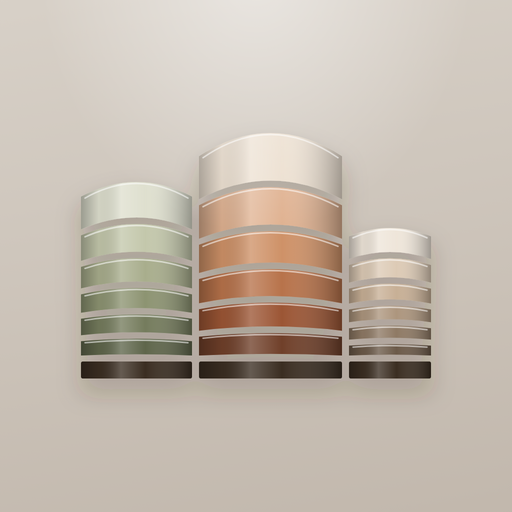
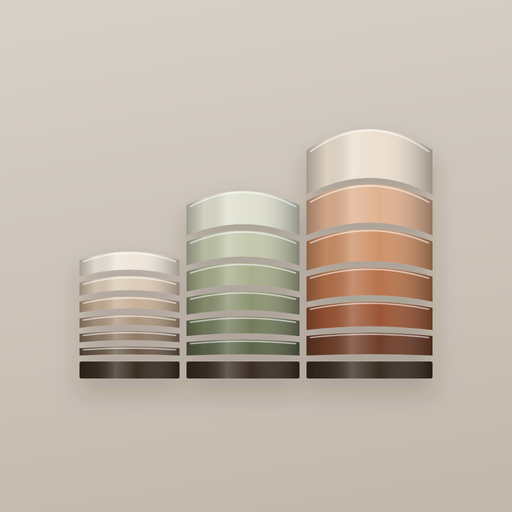
Eigen productlogo in plaats van het LuzeX-lockup
Elk product krijgt drie torens in dezelfde tekentaal als het LuzeX-beeldmerk,
maar in een eigen opstelling: ACCRD drie even hoog (alles klopt), CMMNTY twee
hoge rond een lagere (zorg om het midden), RSLNT oplopend (groei). Het lockup
draagt de productnaam in Outfit Light met een eigen slogan; favicon, app-iconen
en het maskable-icoon volgen. De hoogte in de balk blijft 47px, de breedte volgt
de verhouding van het nieuwe lockup.

Claude-Session: https://claude.ai/code/session_01DbSy4H9TgScYAeZfyUHyBw

Changed region(s): [[0.1562, 0.25, 0.8438, 0.75], [0.4688, 0.0, 0.5312, 0.0312]]

diff --git a/frontend/styles.css b/frontend/styles.css
@@ -345,11 +345,12 @@ body::after {
 
 /* ---------- Merk ---------- */
 
+/* RSLNT-lockup: 575,7 × 120 (= 4,798), op 47px hoogte 225px breed. */
 .brand-logo {
   display: block;
   width: 225px;
-  aspect-ratio: 4.789;
-  background-image: url("/assets/luzex-logo-zwart.svg");
+  aspect-ratio: 4.798;
+  background-image: url("/assets/rslnt-logo-zwart.svg");
   background-repeat: no-repeat;
   background-position: left center;
   background-size: contain;
@@ -358,7 +359,7 @@ body::after {
 
 @media (prefers-color-scheme: dark) {
   .brand-logo {
-    background-image: url("/assets/luzex-logo-wit.svg");
+    background-image: url("/assets/rslnt-logo-wit.svg");
   }
 }
 
@@ -371,15 +372,6 @@ body::after {
   flex-shrink: 0;
 }
 
-.merk-product {
-  font-size: 12px;
-  font-weight: 600;
-  letter-spacing: 0.16em;
-  text-transform: uppercase;
-  color: var(--text-secondary);
-  padding-left: 12px;
-  border-left: 1px solid var(--border-strong);
-}
 
 /* ---------- De zwevende balk (zelfde onderdeel als op luzex.nl en ACCRD) ---------- */
 
@@ -448,9 +440,6 @@ body::after {
     width: min(45vw, 160px);
   }
 
-  .merk-product {
-    display: none;
-  }
 
   .balk-acties {
     margin-left: auto;
@@ -886,16 +875,13 @@ body.app {
   margin-bottom: 8px;
 }
 
-/* Op de telefoon blijft "RSLNT" naast het logo staan: dit is de app zelf, geen marketingsite. */
+/* Op de telefoon blijft de balk op één rij: dit is de app zelf, geen marketingsite. De naam
+   RSLNT staat sinds het eigen lockup in het logo, niet meer als los label ernaast. */
 @media (max-width: 760px) {
   .balk {
     flex-wrap: nowrap;
     border-radius: var(--radius-pill);
     padding: 8px 8px 8px 16px;
-  }
-
-  .balk .merk-product {
-    display: inline;
   }
 }
 

diff --git a/frontend/common.js b/frontend/common.js
@@ -278,8 +278,7 @@ function tekenBalk() {
   houder.innerHTML = `
     <div class="balk">
       <a href="/" class="merk" aria-label="LuzeX RSLNT — naar vandaag">
-        <span class="brand-logo" role="img" aria-label="LuzeX"></span>
-        <span class="merk-product">RSLNT</span>
+        <span class="brand-logo" role="img" aria-label="RSLNT — Trainen. Herstellen. Sterker."></span>
       </a>
       <div class="balk-acties">
         <span class="wachtrij-indicator" id="wachtrij-indicator" role="status" hidden></span>
@@ -316,7 +315,7 @@ function tekenVoet() {
   voet.innerHTML = `
     <div class="voet-boven">
       <div class="voet-merk">
-        <a href="https://luzex.nl" class="brand-logo" role="img" aria-label="LuzeX — Minder. Maar beter."></a>
+        <a href="https://luzex.nl" class="brand-logo" role="img" aria-label="RSLNT — Trainen. Herstellen. Sterker."></a>
         <p class="voet-tagline">Sterker worden, zonder giswerk. Een app van LuzeX.</p>
       </div>
       <div class="voet-kolom">
